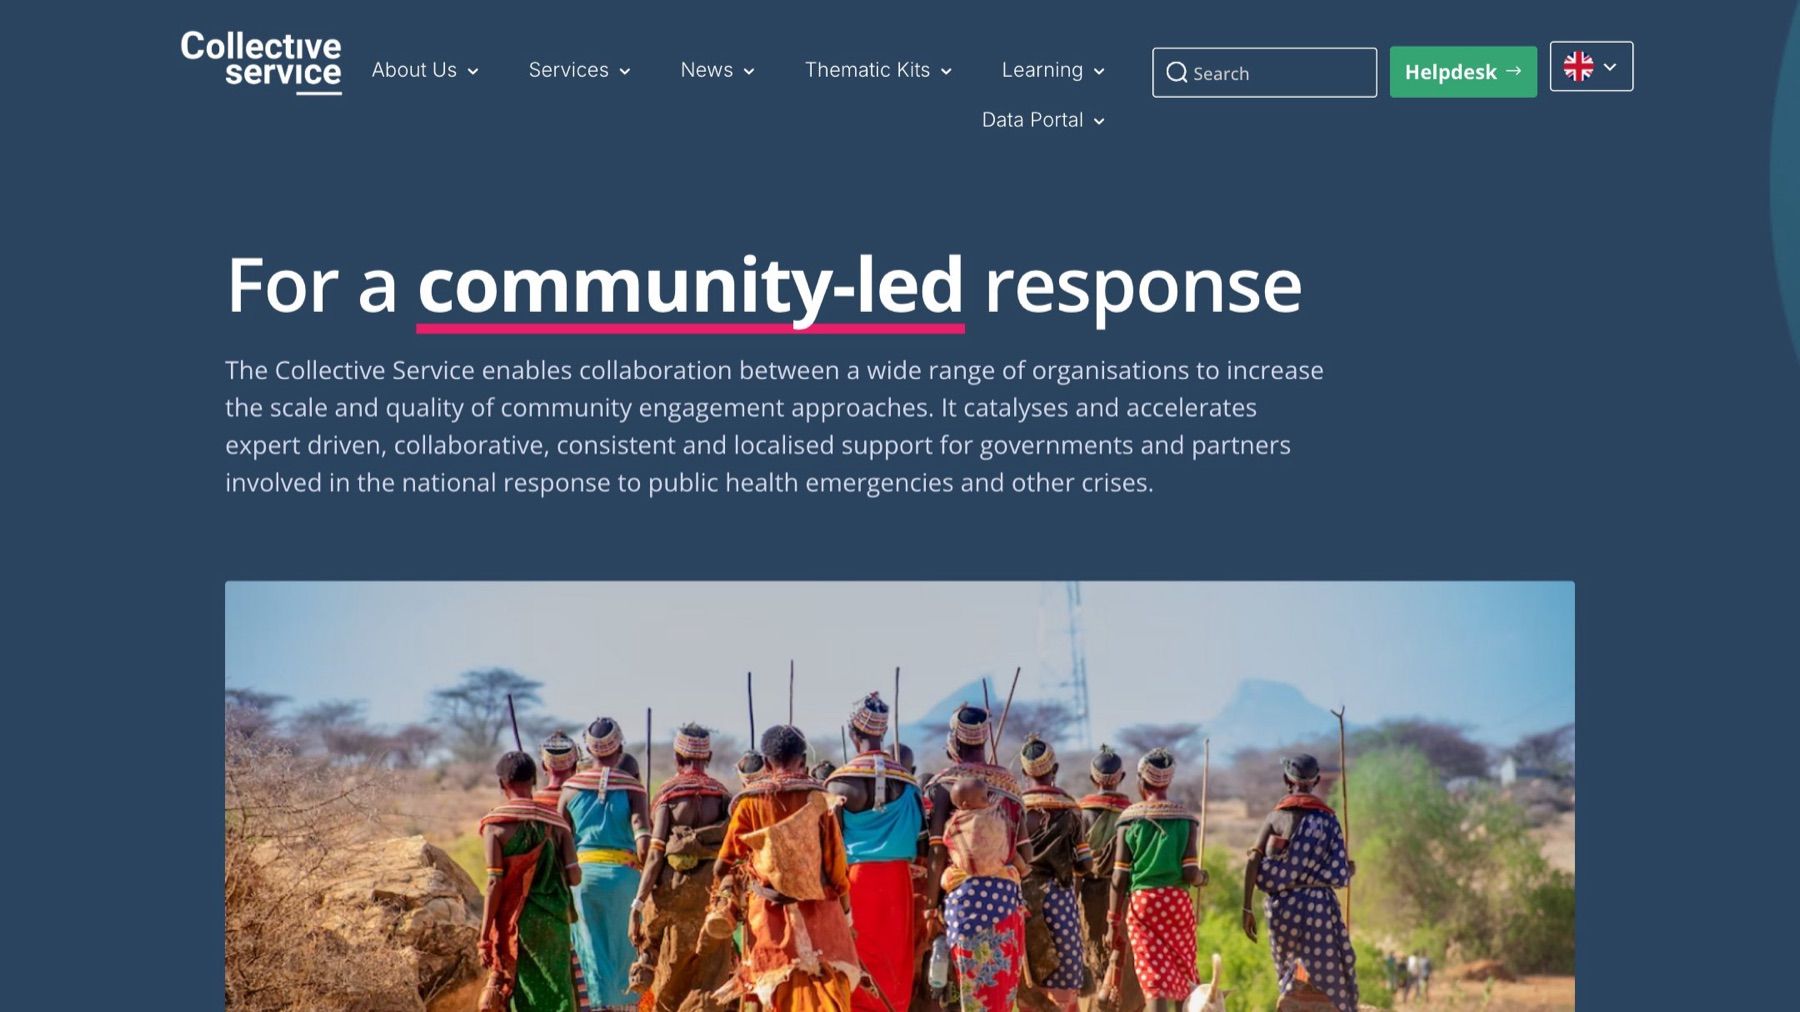
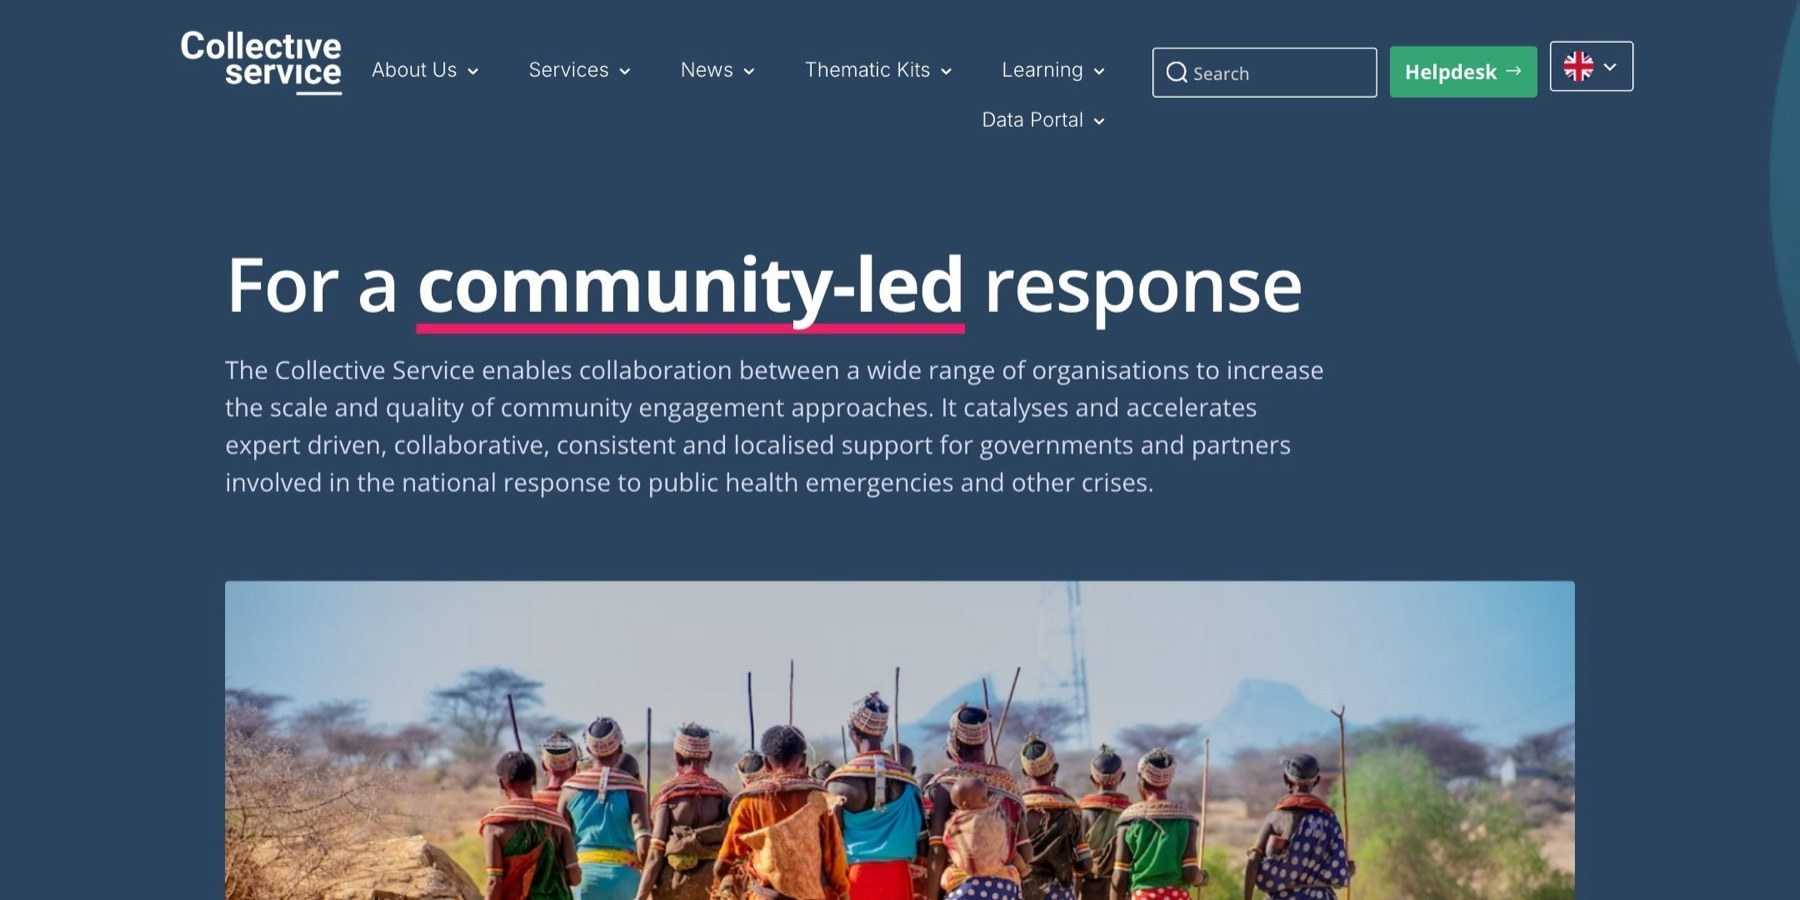
Show project images whole: recrop, matching before and after, no zoom
Old sites are cut to the new site's height, so both sides of each slider
end on the same line. The Foundation card is retaken without the menu and
with even margins, its case study image is now the gift form, and the
Knowledge bank image loses the pale strip. Hover zoom and the resting zoom
and scroll drift are gone, so images show exactly as cropped. The Website
Carbon badge moves to the far right of the language row.

diff --git a/app/globals.css b/app/globals.css
@@ -589,8 +589,6 @@ textarea::placeholder {
   flex-wrap: wrap;
   align-items: center;
   gap: 4px;
-  padding-top: 12px;
-  border-top: 1px solid var(--line);
 }
 .language-row a {
   display: inline-flex;
@@ -883,15 +881,6 @@ body {
   position: absolute;
   inset: 0;
   display: block;
-  scale: 1.06;
-  /* Grows to the right, so headlines near the left edge of a screenshot stay whole. */
-  transform-origin: left center;
-}
-.work-image img {
-  transition: scale 1.6s cubic-bezier(0.16, 1, 0.3, 1);
-}
-.work-image:hover img {
-  scale: 1.06;
 }
 .view-cursor {
   position: fixed;
@@ -1169,7 +1158,7 @@ body {
 .slider {
   position: relative;
   margin-top: clamp(20px, 2.4vw, 32px);
-  aspect-ratio: 16 / 9;
+  aspect-ratio: var(--frame, 16 / 9);
   overflow: hidden;
   background: var(--tint);
   user-select: none;
@@ -1192,7 +1181,7 @@ body {
 }
 .slider-tag {
   position: absolute;
-  top: 16px;
+  bottom: 16px;
   left: 16px;
   padding: 2px 10px;
   background: #fff;
@@ -1253,8 +1242,18 @@ body {
   border-color: transparent transparent transparent var(--ink);
 }
 
+.footer-top {
+  display: flex;
+  flex-wrap: wrap;
+  align-items: center;
+  justify-content: space-between;
+  gap: 16px 32px;
+  padding-top: 12px;
+  border-top: 1px solid var(--line);
+}
 .site-footer #wcb.carbonbadge {
-  text-align: start;
+  margin-inline-start: auto;
+  text-align: end;
 }
 
 /* Long words in French, German and Portuguese must not push a phone screen wider. */
@@ -1429,7 +1428,7 @@ html[dir="rtl"] .drawer {
   padding-top: clamp(56px, 6vw, 96px);
 }
 .case-image .work-image {
-  aspect-ratio: 16 / 9;
+  aspect-ratio: var(--frame, 16 / 9);
 }
 .case-image figcaption {
   margin-top: 10px;

diff --git a/app/[lang]/work/[slug]/page.tsx b/app/[lang]/work/[slug]/page.tsx
@@ -1,3 +1,4 @@
+import type { CSSProperties } from "react";
 import type { Metadata } from "next";
 import Image from "next/image";
 import Link from "next/link";
@@ -10,6 +11,12 @@ import { localePath, type Lang } from "@/lib/languages";
 import { alternates } from "@/lib/seo";
 
 type Props = { params: Promise<{ lang: string; slug: string }> };
+
+// Each frame matches its screenshot exactly, so nothing is cut off and no strip shows.
+const FRAMES: Record<string, { image: string; slider: string }> = {
+  "collective-service": { image: "1800 / 934", slider: "2 / 1" },
+  "global-girls-foundation": { image: "1800 / 1012", slider: "1800 / 1012" },
+};
 
 export const dynamicParams = false;
 
@@ -95,7 +102,7 @@ export default async function CaseStudyPage({ params }: Props) {
       </div>
 
       <figure className="wrap case-image">
-        <span className="work-image">
+        <span className="work-image" style={{ "--frame": FRAMES[slug].image } as CSSProperties}>
           <Image src={project.detailImage.src} alt={project.detailImage.alt} fill sizes="(max-width: 1512px) 100vw, 1384px" />
         </span>
         <figcaption>{project.detailImage.caption}</figcaption>
@@ -125,6 +132,7 @@ export default async function CaseStudyPage({ params }: Props) {
           label={t.beforeAfter}
           beforeAlt={`${project.name} · ${t.before}`}
           afterAlt={`${project.name} · ${t.after}`}
+          frame={FRAMES[slug].slider}
         />
       </section>
 

diff --git a/components/Motion.tsx b/components/Motion.tsx
@@ -67,12 +67,6 @@ export default function Motion({ view }: { view: string }) {
       }
       if (reduced) return;
       const vh = window.innerHeight;
-      document.querySelectorAll<HTMLElement>(".px").forEach((layer) => {
-        const box = layer.parentElement?.getBoundingClientRect();
-        if (!box || box.bottom < -80 || box.top > vh + 80) return;
-        const progress = (box.top + box.height / 2 - vh / 2) / (vh / 2 + box.height / 2);
-        layer.style.translate = `0 ${(progress * box.height * -0.05).toFixed(1)}px`;
-      });
       const display = hero();
       if (display) display.style.translate = `0 ${(-Math.min(y, vh) * 0.12).toFixed(1)}px`;
       document.querySelectorAll<HTMLElement>(".about-line").forEach((line) => {
@@ -166,7 +160,7 @@ export default function Motion({ view }: { view: string }) {
       if (kind === "img") {
         make(element, [{ clipPath: "inset(100% 0 0 0)" }, { clipPath: "inset(0% 0 0 0)" }], { duration: 2100, easing: EW });
         const layer = element.querySelector(".px");
-        if (layer) make(layer, [{ scale: "1.4" }, { scale: "1.06" }], { duration: 3200, easing: EO });
+        if (layer) make(layer, [{ scale: "1.4" }, { scale: "1" }], { duration: 3200, easing: EO });
       }
       made.set(element, list);
     };

diff --git a/components/BeforeAfter.tsx b/components/BeforeAfter.tsx
@@ -13,6 +13,7 @@ export default function BeforeAfter({
   label,
   beforeAlt,
   afterAlt,
+  frame,
 }: {
   before: string;
   after: string;
@@ -21,6 +22,7 @@ export default function BeforeAfter({
   label: string;
   beforeAlt: string;
   afterAlt: string;
+  frame: string;
 }) {
   const box = useRef<HTMLDivElement>(null);
   const dragging = useRef(false);
@@ -73,7 +75,7 @@ export default function BeforeAfter({
     <div
       ref={box}
       className="slider"
-      style={{ "--ba": `${value.toFixed(2)}%` } as CSSProperties}
+      style={{ "--ba": `${value.toFixed(2)}%`, "--frame": frame } as CSSProperties}
       onPointerDown={onDown}
       onPointerMove={(event) => {
         if (event.buttons) moveTo(event.clientX);

diff --git a/components/SiteFooter.tsx b/components/SiteFooter.tsx
@@ -9,8 +9,10 @@ export default function SiteFooter({ lang }: { lang: Lang }) {
   const t = getContent(lang);
   return (
     <footer id="languages" className="site-footer">
-      <LanguageButtons lang={lang} label={t.common.languages} />
-      <CarbonBadge />
+      <div className="footer-top">
+        <LanguageButtons lang={lang} label={t.common.languages} />
+        <CarbonBadge />
+      </div>
       <div className="footer-row">
         <span dir="ltr">
           © 2026 {SITE.name} · {SITE.legalName}, {SITE.address} · <a href={`mailto:${SITE.email}`}>{SITE.email}</a>
